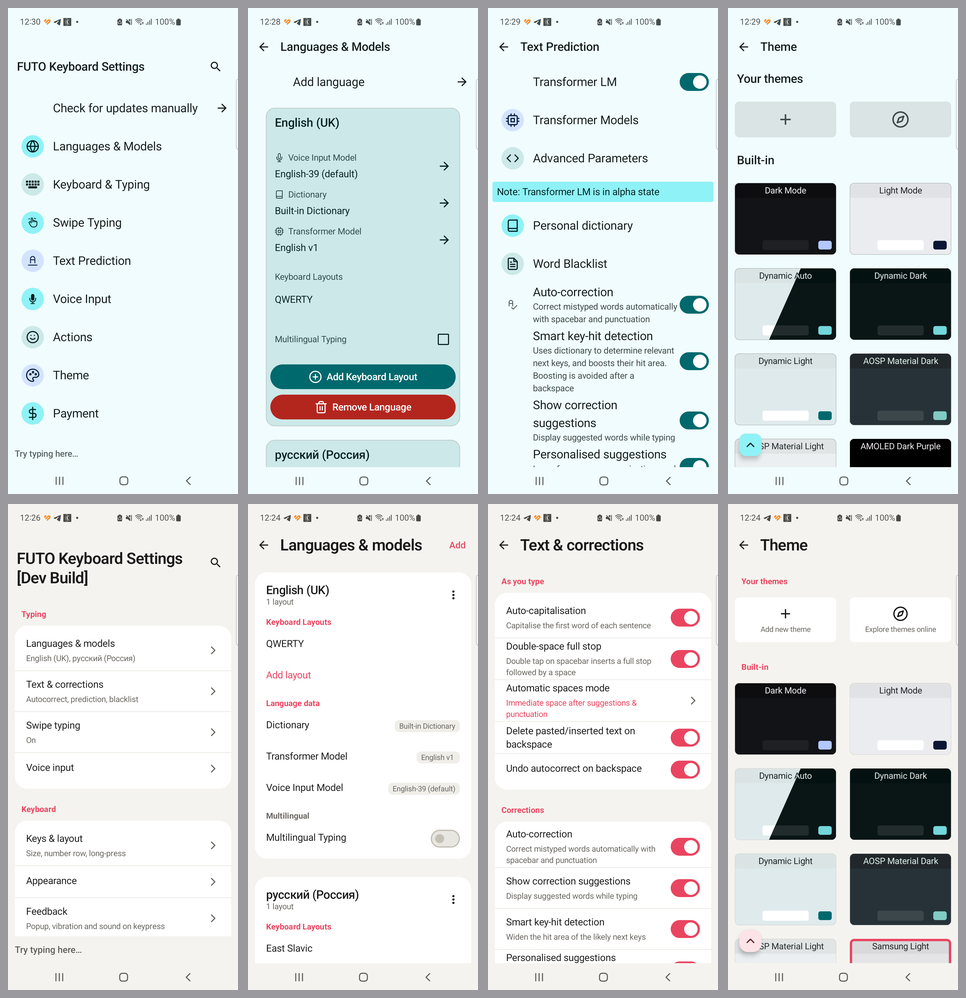
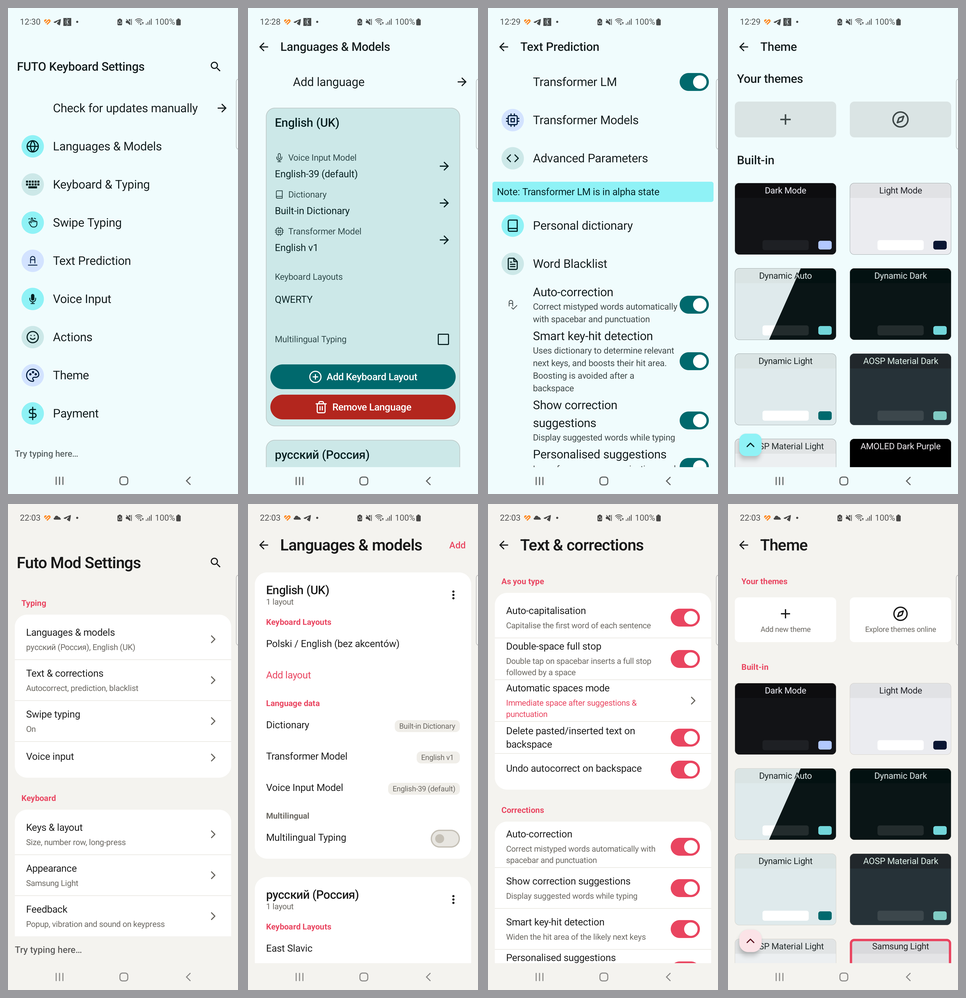
The fork is called Futo Mod, and signs with its own key
It was calling itself "FUTO Keyboard [Dev Build]" in the keyboard picker, the
launcher and its own settings, because the `kirkouski` flavour took its
resources from `java/unstable/res` -- the dev flavour's icon and styling, and
its name along with them. Three FUTO entries in the system keyboard list, one of
them ours, and nothing said which.

The name is not one string. `english_ime_name` and the three beside it are
translated in 38 locales of translations/core, so overriding only the default
`values/` would have left a German phone reading "FUTO Tastatur". `forkAppRes`
generates the override for `values` and for every locale that carries one, 39 in
all, and copies the dev flavour's resources without their own appname file --
two files defining one string in one source set is a merge error, not an
override. translations/devbuild goes with it: its per-locale files are the
"[Dev Build]" names, and they are now covered.

Verified in the built APK: application-label is "Futo Mod" in the default, `de`
and `pl`, and the phone lists it as Futo Mod beside the two FUTO Keyboards.

SIGNING. There is a release key now, RSA 4096, `CN=Futo Mod`, valid 30 years.
build.gradle already read `keystore.properties` when present, so nothing changed
there -- the file and the keystore are gitignored and stay out of the tree.
Releases up to 0.1.30-kirkouski.2 carried the Android SDK's debug certificate,
whose private half ships with every SDK install; the new fingerprint is in the
[…]

diff --git a/README.md b/README.md
@@ -4,10 +4,10 @@ A personal fork of [futo-org/android-keyboard](https://github.com/futo-org/andro
 carrying Polish and Cyrillic typographic layouts, a Samsung-style theme, and a
 handful of upstream fixes that have not landed yet.
 
-It installs alongside a released FUTO Keyboard rather than replacing it: the
-`kirkouski` flavor has its own applicationId, and update checking is off, because
-an "update" would swap this build for an upstream release and drop every patch
-below.
+It installs as **Futo Mod**, alongside a released FUTO Keyboard rather than
+replacing it: the `kirkouski` flavor has its own applicationId, and update
+checking is off, because an "update" would swap this build for an upstream
+release and drop every patch below.
 
 Upstream's own README follows [under the divider](#futo-keyboard).
 
@@ -109,11 +109,23 @@ APKs are attached to this fork's
 install alongside an official FUTO Keyboard rather than replacing it.
 
 They are **not** signed with FUTO's key, and the fingerprints under
-[APK signing](#apk-signing) are FUTO's — they will not match anything here. This
-fork has no release key of its own, so its APKs carry the Android SDK's debug
-certificate (`CN=Android`, SHA-256 `28:BB:FE:4A:7B:97:E7:46:…`). Every SDK
-install ships that key's private half, so the signature makes an APK installable
-and tells you nothing about who built it. Build it yourself if that matters.
+[APK signing](#apk-signing) are FUTO's — they will not match anything here. From
+`0.1.30-kirkouski.3` on, this fork signs with its own key:
+
+```
+CN=Futo Mod, OU=Kirkouski Fork, O=Andrei Kirkouski, C=PL
+SHA-256: 89:CF:20:B5:7C:D0:4F:0E:DA:48:A6:EF:91:D9:3D:FE:03:45:47:62:2A:D6:FF:55:C0:00:73:71:2B:9F:D9:ED
+```
+
+Check it with `apksigner verify --print-certs <apk>`. It says the APK came from
+whoever holds that key and has not been altered since; it is self-signed, so it
+vouches for continuity between releases, not for an identity anyone else has
+verified. Build it yourself if that matters.
+
+Releases up to `0.1.30-kirkouski.2` carried the Android SDK's debug certificate
+(`CN=Android`), whose private half ships with every SDK install and identifies
+nobody. **Android will not upgrade across that change**: uninstall an earlier
+build before installing `.3`, which loses this keyboard's settings.
 
 ### Building this fork
 
